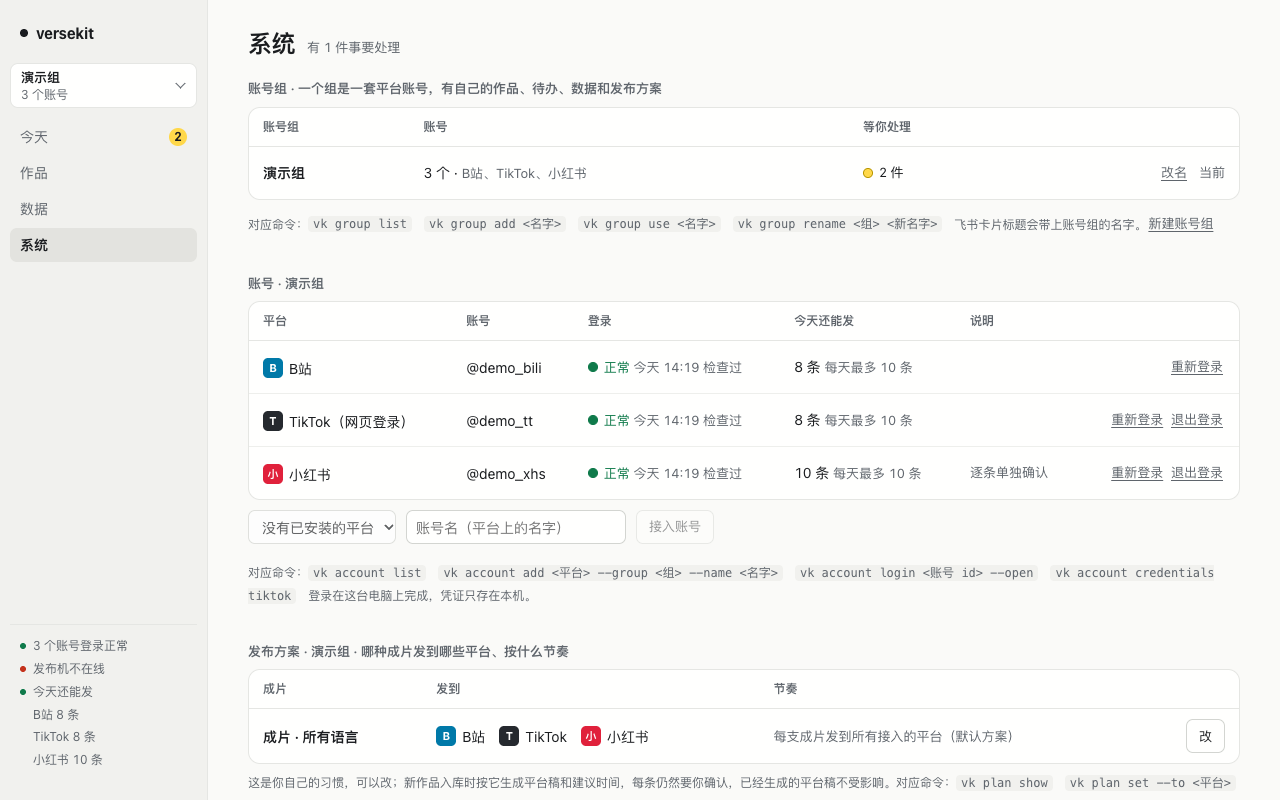
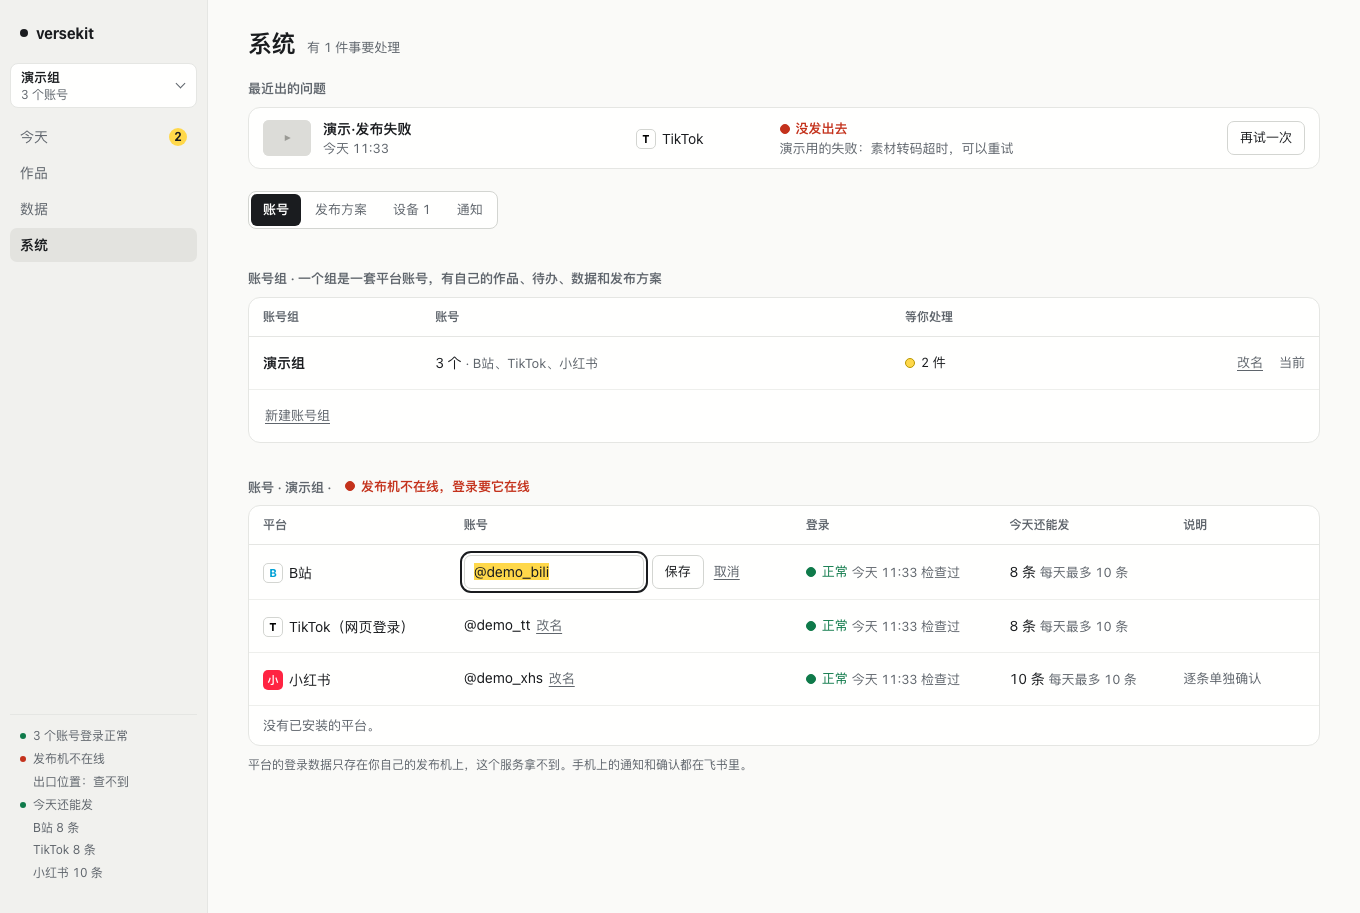
feat(core): 账号名不设限、能改名，输入法组字时回车不提交（#374）
账号名是 VerseKit 里给自己看的名字，不影响平台。名字规则收到 core 一处（去空格后非空、≤40 字，
可与组名、同组其他平台同名），添加与改名共用；新增 account.rename 只改显示名；
网页所有回车即提交的输入框在 isComposing / keyCode 229 时不提交。

diff --git a/packages/web/public/system.html b/packages/web/public/system.html
@@ -110,6 +110,7 @@
     credsMissingIds: new Set(), // 后端明确说「没有应用凭证」的账号 id（平台清单可能晚一拍，别让状态盖回去）
     renaming: null, newGroup: false, newGroupName: "", groupBusy: false, groupNote: "",
     addPlatform: "", addName: "", addBusy: false, addNote: "",
+    renamingAcc: null, renameAccName: "", renameAccBusy: false, renameAccNote: "",
     cred: { key: "", secret: "", busy: false, note: "", bad: false },
     checktime: null,      // { time, value, busy, note }：视频号每天检查登录的钟点
     egress: null, ipStep: null, ipBusy: false, // 出口位置：/api/egress；ipStep = null | stay（继续用新位置，行内再确认）
@@ -274,9 +275,12 @@
     const st = VK.loginState(a);
     const lg = ui.login[a.id];
     const name = a.display_name || a.handle;
-    const who = a.avatar_url && connected(a)
+    const shown = a.avatar_url && connected(a)
       ? `<img class="av" src="${esc(a.avatar_url)}" alt="" width="20" height="20" referrerpolicy="no-referrer">${esc(name)}`
       : esc(name);
+    const who = ui.renamingAcc === a.id
+      ? `<div class="grpname"><input type="text" id="acc-rename-input" value="${esc(ui.renameAccName)}" aria-label="账号的新名字" autocomplete="off" maxlength="40"><button class="btn" data-accrenamesave="${esc(a.id)}"${ui.renameAccBusy ? " disabled" : ""}>保存</button><button class="link" data-accrenamecancel>取消</button></div>${ui.renameAccNote ? `<span class="say bad" role="status">${esc(ui.renameAccNote)}</span>` : ""}`
+      : `${shown} <button class="link" data-accrename="${esc(a.id)}" aria-label="给 ${esc(name)} 改名">改名</button>`;
     const q = a.quota;
     const sendable = !lg && !credsMissing(a) && !credsUnknown(a) && !a.identityConflict && st.key === "ok";
     const quota = !q ? '<span class="sub">不限</span>' : sendable ? `${q.left} 条 <span class="sub">每天最多 ${q.cap} 条</span>` : '<span class="sub">现在发不了</span>';
@@ -342,7 +346,7 @@
     if (allTaken) return '<tr><td colspan="6" class="sub">这个组能接的平台都接上了。一个组里每个平台接一个号；要接第二个号，新建一个账号组。</td></tr>';
     const opts = ui.platforms.map((p) => `<option value="${esc(p.platform)}"${p.platform === ui.addPlatform && !taken(p.platform) ? " selected" : ""}${taken(p.platform) ? " disabled" : ""}>${esc(labelOf(p.platform))}${taken(p.platform) ? "（已接入）" : ""}</option>`).join("");
     return `<tr class="addrow" id="addrow"><td><select id="add-platform" aria-label="要接入的平台">${opts}</select></td>` +
-      `<td><input type="text" id="add-name" placeholder="账号名（平台上的名字）" aria-label="账号名" autocomplete="off" maxlength="200" value="${esc(ui.addName)}"></td>` +
+      `<td><input type="text" id="add-name" placeholder="账号名（你自己认得出就行，不影响平台）" aria-label="账号名" autocomplete="off" maxlength="40" value="${esc(ui.addName)}"></td>` +
       `<td colspan="3" class="sub"><span class="say${ui.addBad ? " bad" : ""}" role="status">${ui.addNote ? esc(ui.addNote) : `接入后当场登录，归到「${esc(group.name)}」。`}</span></td>` +
       `<td class="n">${B("data-add", "接入账号", "btn", ui.addBusy || !group ? " disabled" : "")}</td></tr>`;
   }
@@ -965,9 +969,7 @@
     const name = ui.addName.trim();
     const say = (t, bad = true) => { ui.addNote = t; ui.addBad = bad; draw(); };
     if (!ui.addPlatform) return say("先选一个平台");
-    if (!name) return say("请填账号名：同一平台可以用它区分不同账号");
-    if (name.toLocaleLowerCase() === String(group.name).trim().toLocaleLowerCase()) return say("别把账号组名当账号名：请填平台上的账号名");
-    if (ui.accounts.some((a) => String(a.handle ?? a.display_name ?? "").replace(/^@/, "").toLocaleLowerCase() === name.replace(/^@/, "").toLocaleLowerCase())) return say(`这个组里已经有叫「${name}」的账号，两个平台同名会分不清，换一个名字。`);
+    // 名字规则（非空、≤40 字）只在 core 一处；这里不再另加「不许和组名同名 / 不许同名」之类的限制。
     ui.addBusy = true; ui.addNote = ""; draw();
     try {
       const isOfficial = Boolean(OFFICIAL[ui.addPlatform]);
@@ -979,7 +981,7 @@
       await startLogin(r.id);
     } catch (err) {
       ui.addBusy = false;
-      say(`${err.message}（换号要先退出登录，再把旧账号移走）`);
+      say(/占用|已经在账号组/.test(err.message) ? `${err.message}（换号要先退出登录，再把旧账号移走）` : err.message);
     }
   }
 
@@ -1047,6 +1049,7 @@
   main.addEventListener("input", (e) => {
     const t = e.target;
     if (t.id === "add-name") ui.addName = t.value;
+    else if (t.id === "acc-rename-input") ui.renameAccName = t.value;
     else if (t.id === "ng-name") ui.newGroupName = t.value;
     else if (t.id === "cred-key") ui.cred.key = t.value;
     else if (t.id === "cred-secret") ui.cred.secret = t.value;
@@ -1076,8 +1079,11 @@
   });
   main.addEventListener("keydown", (e) => {
     if (e.key !== "Enter") return;
+    // 输入法组字时回车是「上屏」，不是提交（拼音打英文按回车会把字母连同空格存成名字）。
+    if (e.isComposing || e.keyCode === 229) return;
     const id = e.target.id;
     if (id === "add-name") { e.preventDefault(); addAccount(); }
+    else if (id === "acc-rename-input") { e.preventDefault(); main.querySelector("[data-accrenamesave]")?.click(); }
     else if (id === "ng-name") { e.preventDefault(); main.querySelector("[data-ngsave]")?.click(); }
     else if (id === "rename-input") { e.preventDefault(); main.querySelector("[data-renamesave]")?.click(); }
     else if (id === "cred-secret") { e.preventDefault(); saveCreds(); }
@@ -1085,7 +1091,7 @@
     else if (id === "sms-code") { e.preventDefault(); main.querySelector("[data-smsgo]")?.click(); }
     else if (id === "relay-token") { e.preventDefault(); main.querySelector("[data-relaysave]")?.click(); }
   });
-  const CLICKABLE = "[data-tab],[data-sw],[data-login],[data-loginmode],[data-smssend],[data-smsresend],[data-smsgo],[data-done],[data-cancel],[data-add],[data-credopen],[data-credcancel],[data-credsave],[data-newg],[data-ngsave],[data-ngcancel],[data-rename],[data-renamesave],[data-renamecancel],[data-plan],[data-planadd],[data-plansave],[data-plancancel],[data-planremove],[data-planreset],[data-retry],[data-autoupd],[data-updnow],[data-updnoteok],[data-notes],[data-relayadd],[data-relaycancel],[data-relaysave],[data-relayask],[data-relayno],[data-relayoff],[data-logout],[data-logoutyes],[data-logoutno],[data-ctsave],[data-ipx],[data-fs]";
+  const CLICKABLE = "[data-tab],[data-sw],[data-login],[data-loginmode],[data-smssend],[data-smsresend],[data-smsgo],[data-done],[data-cancel],[data-add],[data-credopen],[data-credcancel],[data-credsave],[data-newg],[data-ngsave],[data-ngcancel],[data-accrename],[data-accrenamesave],[data-accrenamecancel],[data-rename],[data-renamesave],[data-renamecancel],[data-plan],[data-planadd],[data-plansave],[data-plancancel],[data-planremove],[data-planreset],[data-retry],[data-autoupd],[data-updnow],[data-updnoteok],[data-notes],[data-relayadd],[data-relaycancel],[data-relaysave],[data-relayask],[data-relayno],[data-relayoff],[data-logout],[data-logoutyes],[data-logoutno],[data-ctsave],[data-ipx],[data-fs]";
   main.addEventListener("click", async (e) => {
     const b = e.target.closest(CLICKABLE);
     if (!b) return;
@@ -1187,6 +1193,23 @@
       catch (err) { toast(`没重试成功：${err.message}`); }
       ui.retrying.delete(d.retry);
       await refresh();
+    } else if (d.accrename) {
+      const a = acc(d.accrename);
+      ui.renamingAcc = d.accrename; ui.renameAccName = a?.display_name || a?.handle || ""; ui.renameAccNote = "";
+      draw(); document.getElementById("acc-rename-input")?.select();
+    } else if ("accrenamecancel" in d) { ui.renamingAcc = null; ui.renameAccNote = ""; draw(); }
+    else if (d.accrenamesave) {
+      const id = d.accrenamesave;
+      ui.renameAccBusy = true; ui.renameAccNote = ""; draw();
+      try {
+        await post(accPath(id, "rename"), { accountId: id, name: ui.renameAccName });
+        ui.renamingAcc = null; ui.renameAccBusy = false;
+        toast("已改名（只改 VerseKit 里的名字，不影响平台）");
+        await refresh();
+      } catch (err) {
+        ui.renameAccBusy = false; ui.renameAccNote = err.message; draw();
+        document.getElementById("acc-rename-input")?.focus();
+      }
     } else if (d.rename) { ui.renaming = d.rename; ui.groupNote = ""; draw(); document.getElementById("rename-input")?.select(); }
     else if ("renamecancel" in d) { ui.renaming = null; draw(); }
     else if (d.renamesave) {
